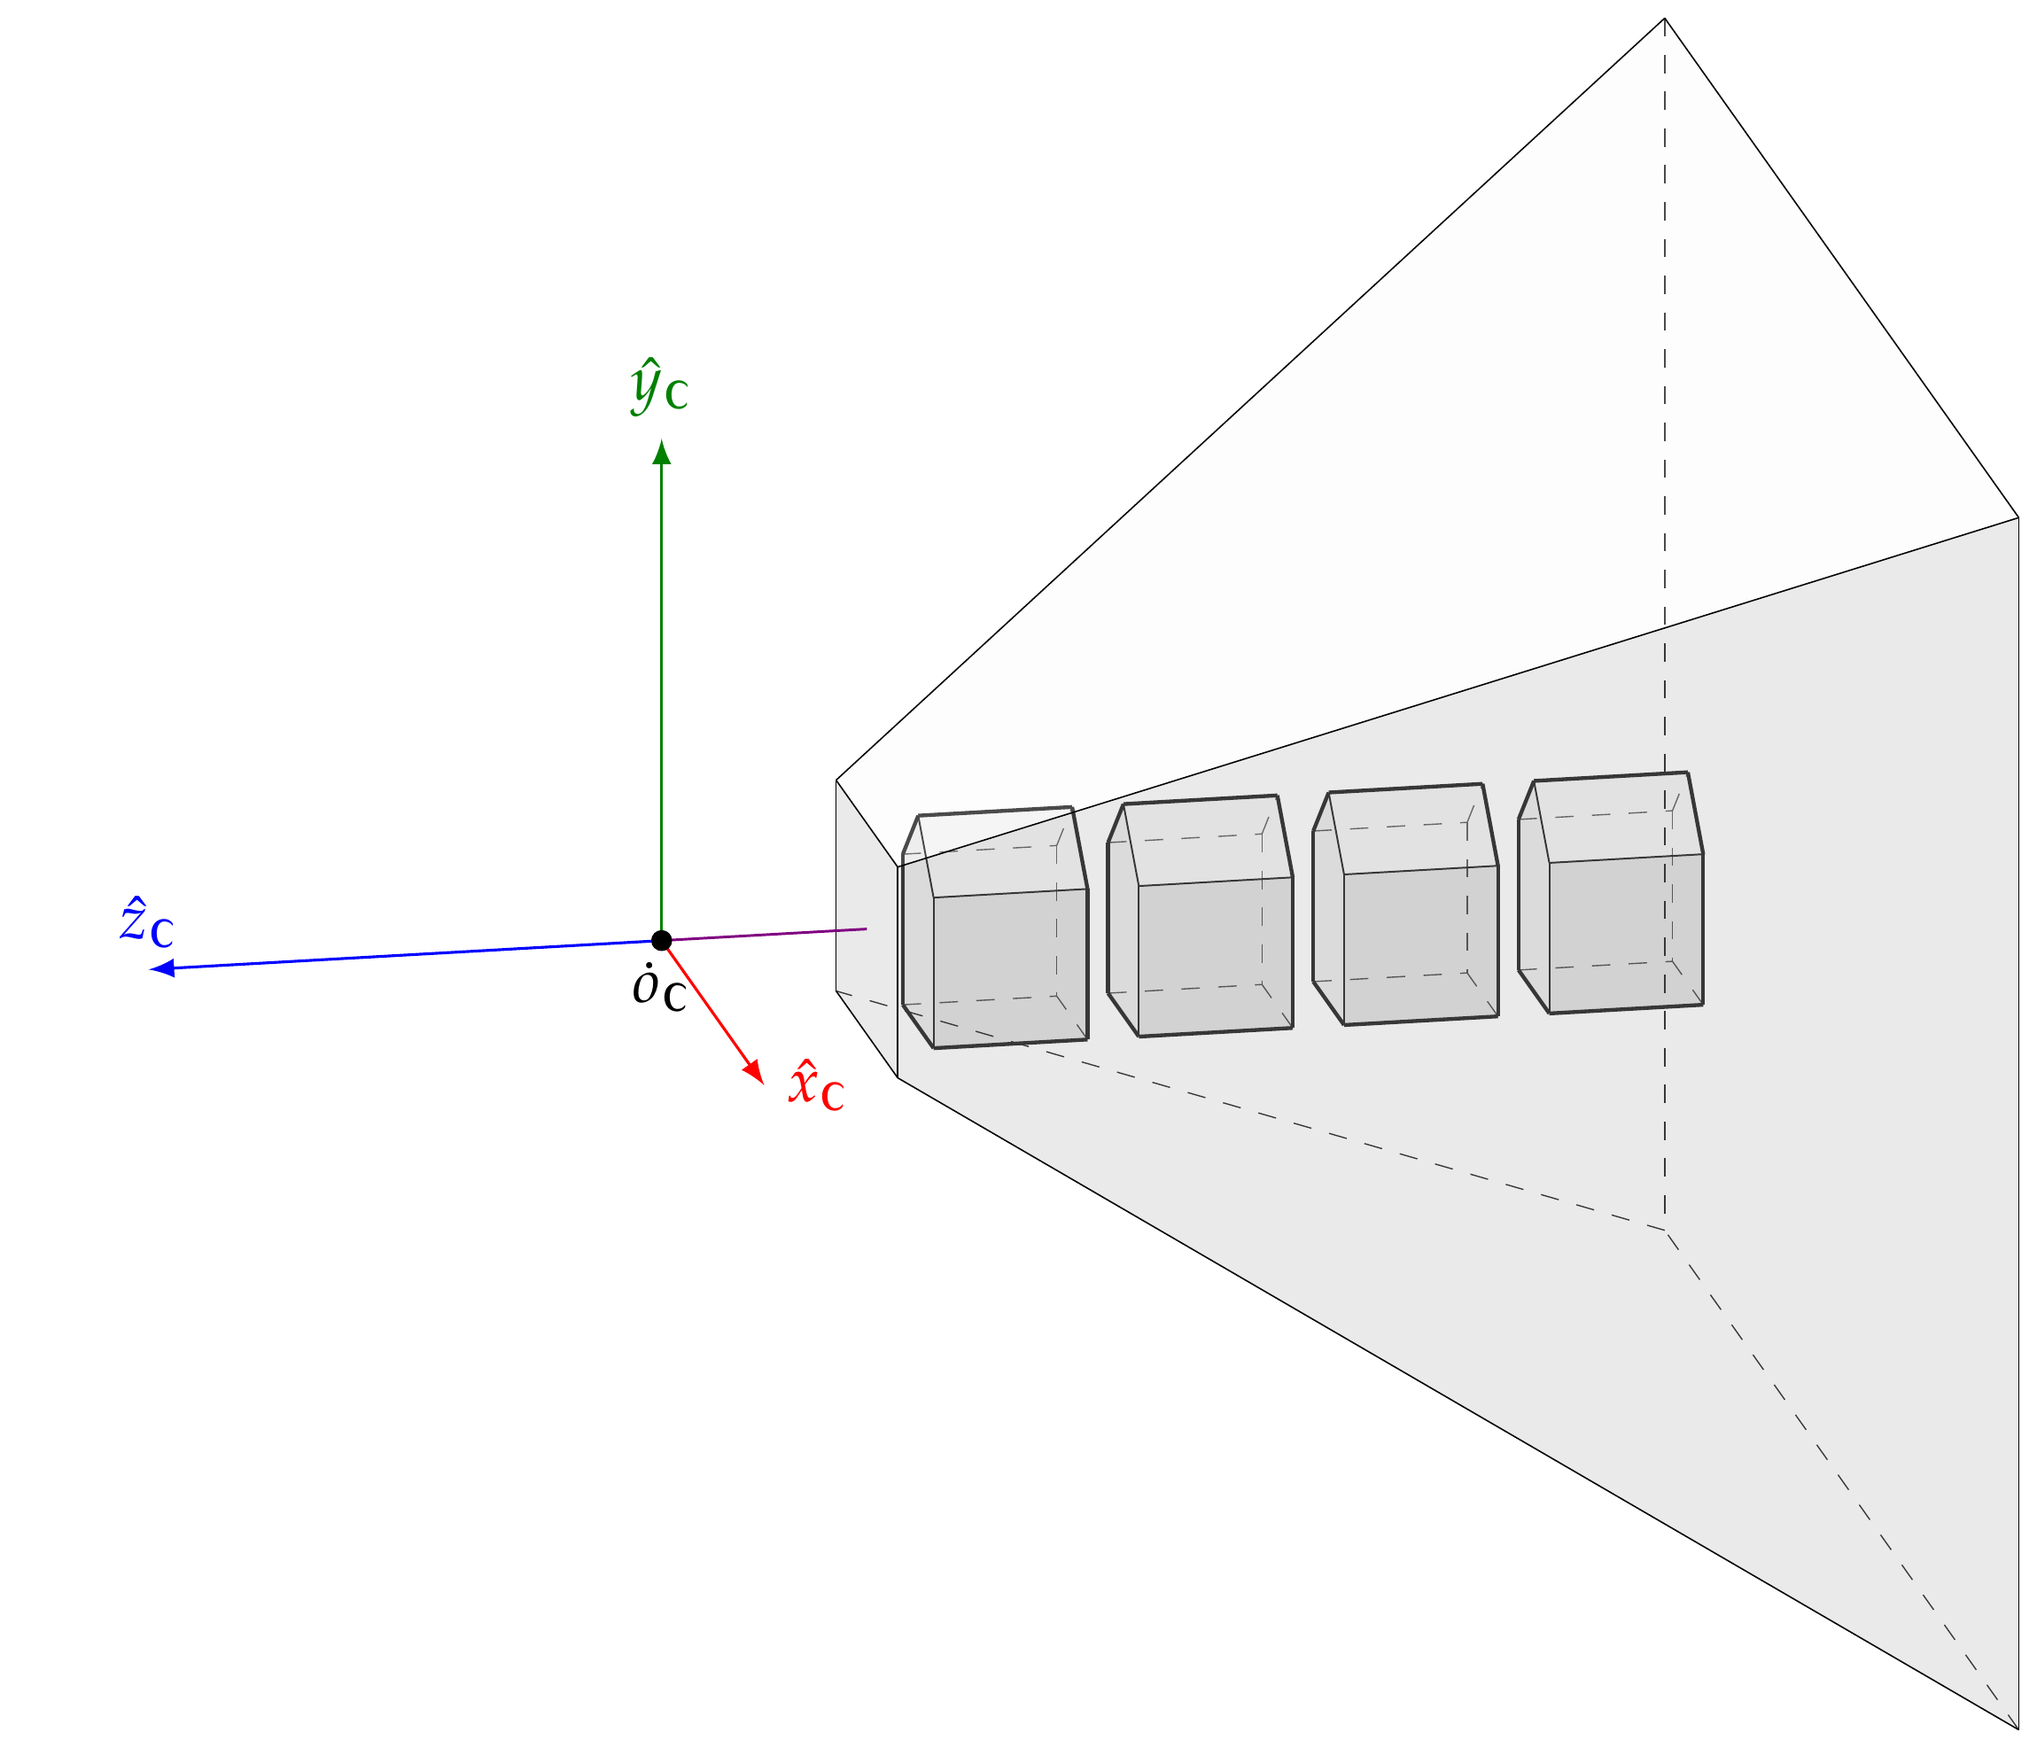
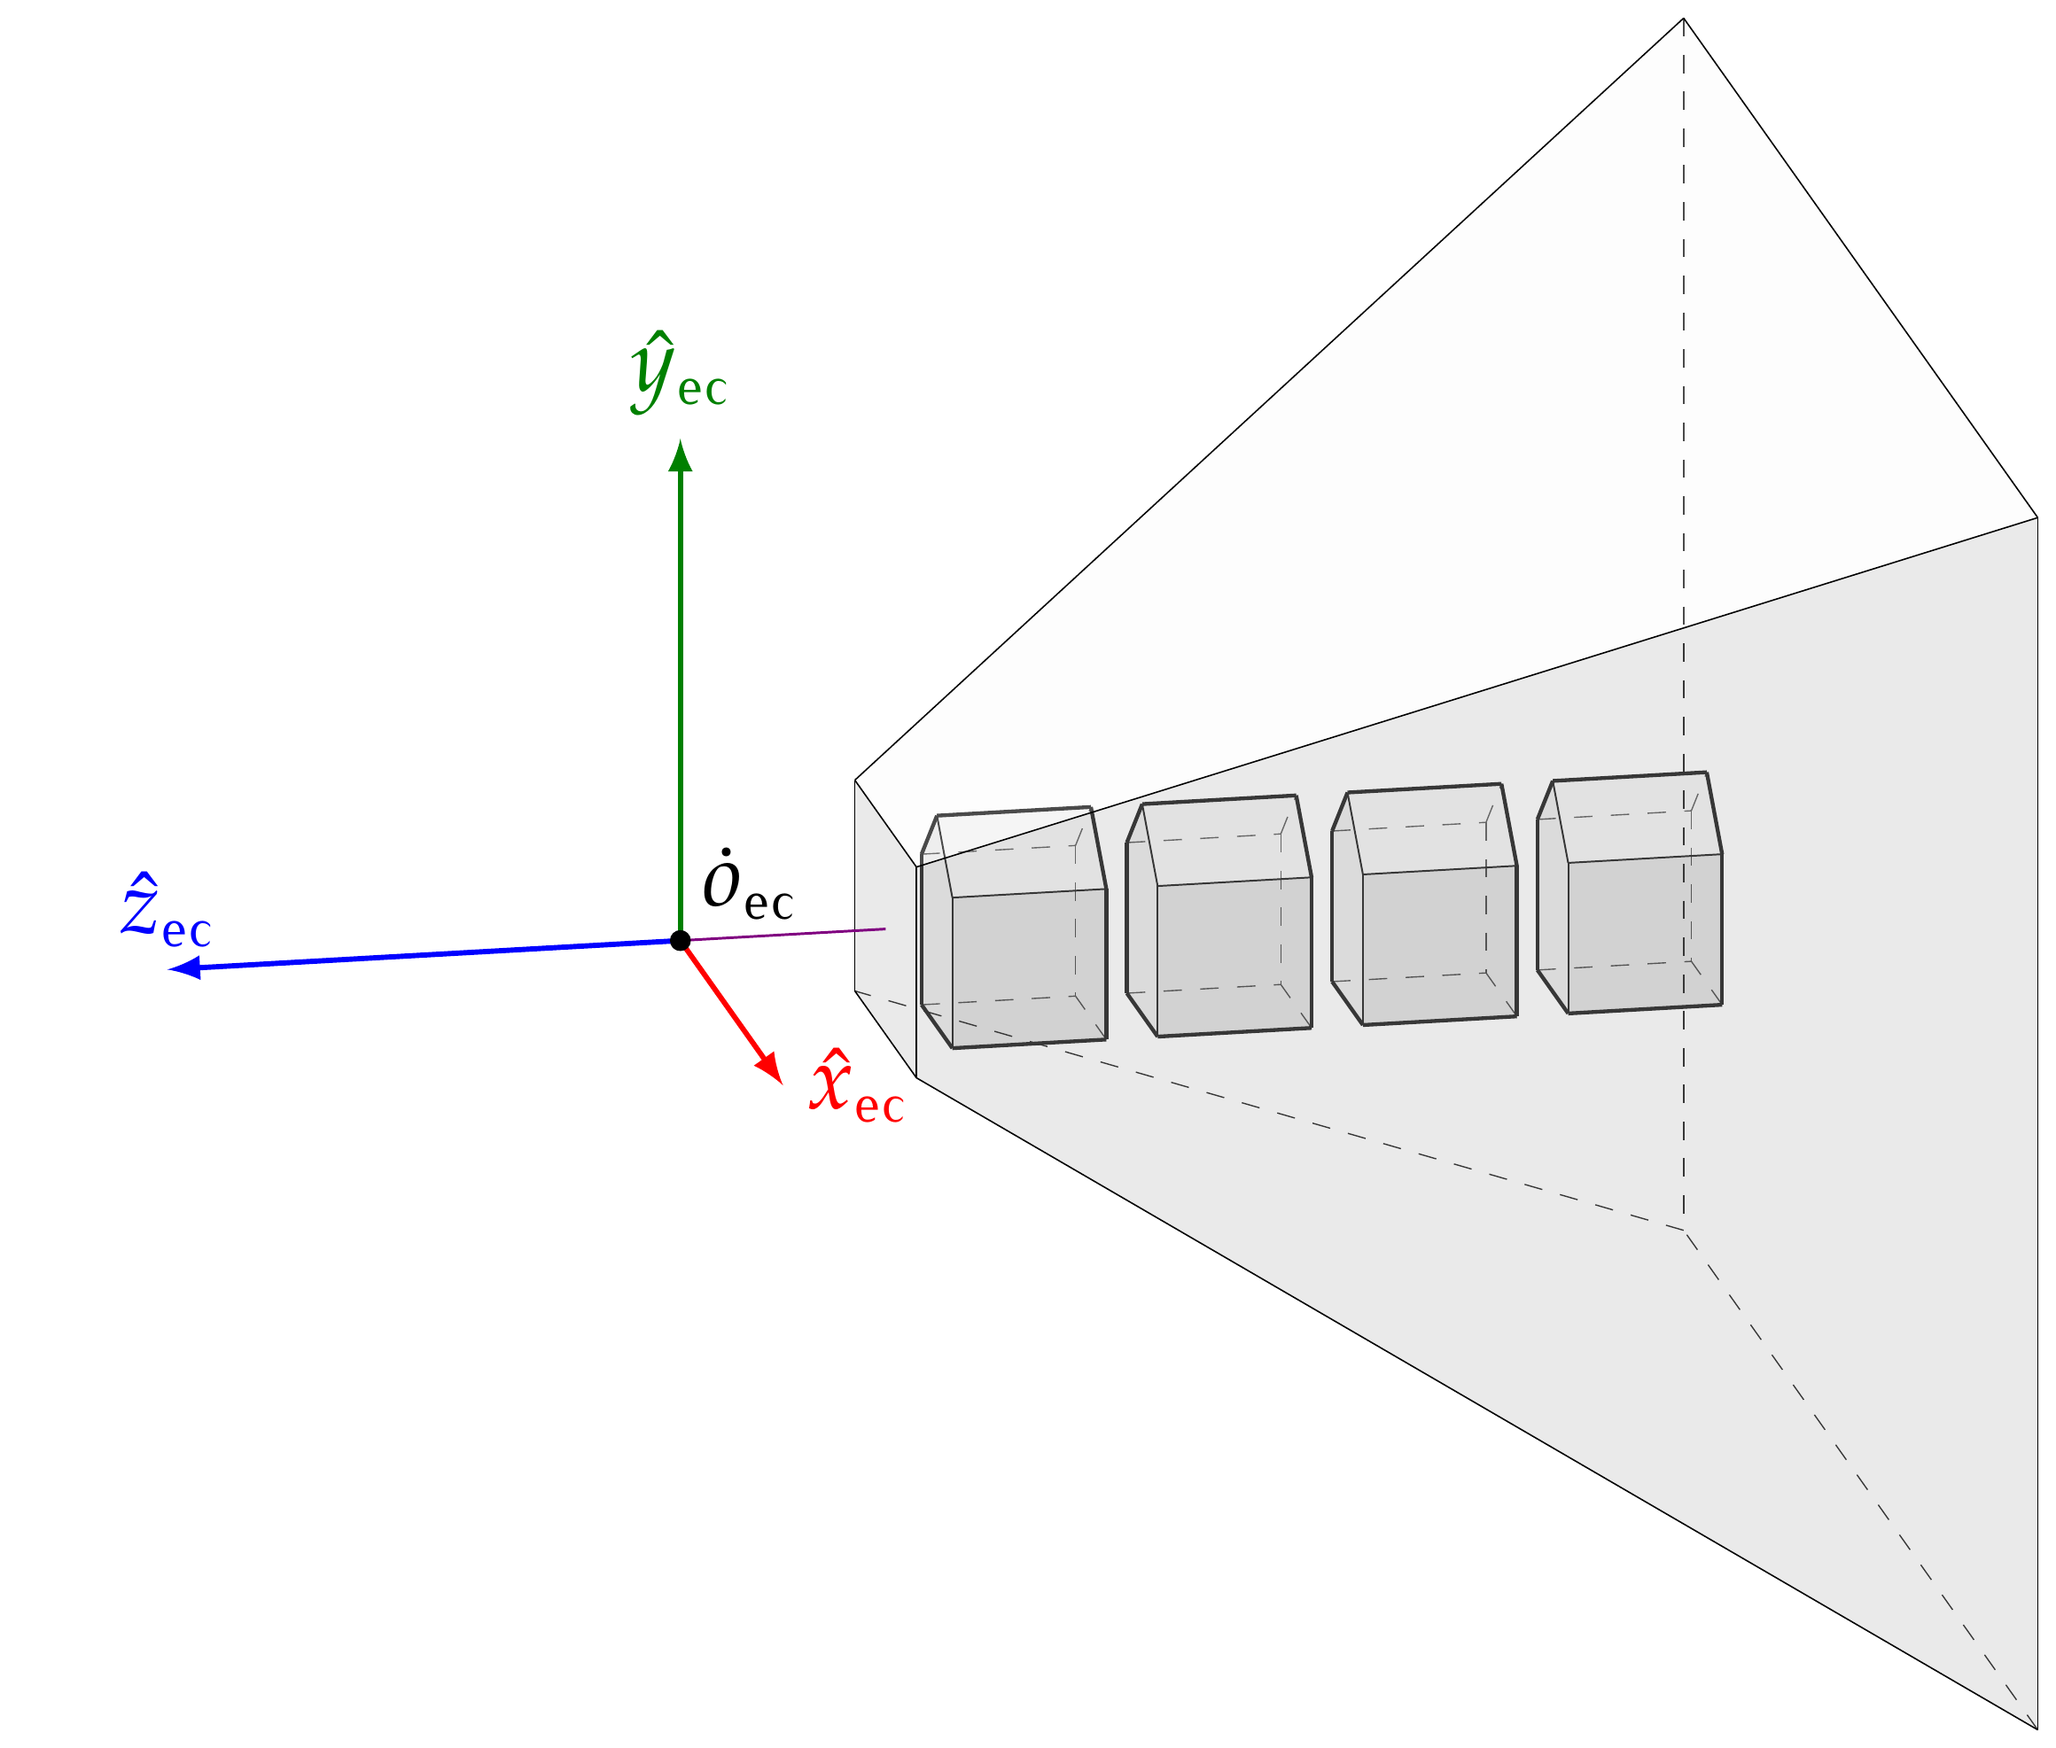
minor updates

diff --git a/src/fig08-persp1.cpp b/src/fig08-persp1.cpp
@@ -61,7 +61,17 @@ int main( int argc, char *argv[] )
    line( {0,0,0}, {0,0,-n}, "line width=0.15mm,color=blue!50!red", "" );
 
    // draw axes
-   axes( "{\\mbox{c}}" );
+   //axes( "{\\mbox{e}}" );
+
+   const std::string lw = "line width=0.3mm", 
+                     size      = "\\Large",
+                     subscript =  "{\\small\\mbox{ec}}" ;
+   
+   line( {0,0,0}, {1,0,0}, "->,>=latex,color=red," +lw, "node[right] {" + size + "$\\vux_" + subscript + "$}" );
+   line( {0,0,0}, {0,1,0}, "->,>=latex,color=green!50!black," +lw , "node[above] {" + size + "$\\vuy_" + subscript + "$}" );
+   line( {0,0,0}, {0,0,1}, "->,>=latex,color=blue," +lw , "node[above] {" + size + "$\\vuz_" + subscript + "$}" );
+   disk( Vec3{0.0,0.0,0.0}, "black", "radius=0.2mm", " node[anchor=south west] {" + size + "$\\pto_" + subscript + "$}" );
+   //cout << "\\fill[fill=black] (0,0) circle [radius=0.11mm] node[below] {$\\pto_" + subscript + "$};" << endl ;
    
    cout 
       << "\\end{tikzpicture}"

diff --git a/src/fig09-persp2.cpp b/src/fig09-persp2.cpp
@@ -52,7 +52,7 @@ int main( int argc, char *argv[] )
 
    // draw CC axes 
    const float lx = 2.0, ly = 2.0 ;
-   const std::string subscript = "{\\small\\mbox{\\!cc}}" ;
+   const std::string subscript = "{\\small\\mbox{\\!ndc}}" ;
    const std::string lw = "line width=0.35mm" ;
 
    

diff --git a/README.md b/README.md
@@ -28,7 +28,7 @@ In OpenGL, the default (initial) value for the **modelview** and **projection** 
 
 <h2>Figure 10</h2>
 
-The **normalized device coordinates** range from 0 to _nx_ y X, from 0 to _ny_ in Y, and from 0 to 1 in Z. The origin is
+The **device coordinates** (DC) range from 0 to _nx_ y X, from 0 to _ny_ in Y, and from 0 to 1 in Z. The origin is
 in the lower left vertex of the visible cuboid's front face. Integers _nx_ and _ny_ are the numbers of pixels columns and rows, respectively,
 in the current viewport.
 
@@ -38,7 +38,7 @@ in the current viewport.
 
 <h2>Figure 9</h2>
 
-The scene from fig.8 is shown projected onto the clip coordinates space, after using a perspective projection matrix.
+The scene from fig.8 is shown after projected onto the **normalized device coordinates** (NDC) space, after using a perspective projection matrix.
 
 <div align="center">
     <img src="pngs/fig09-persp2.png" width="400px"</img>
@@ -47,7 +47,7 @@ The scene from fig.8 is shown projected onto the clip coordinates space, after u
 
 <h2>Figure 8</h2>
 
-A scene is shown inside the perspective view frustum, aligned with the camera reference frame.
+A scene is shown inside the perspective view frustum, in the **eye coordinates** (EC) space (thus aligned with the camera reference frame).
 
 <div align="center">
     <img src="pngs/fig08-persp1.png" width="400px"</img>
